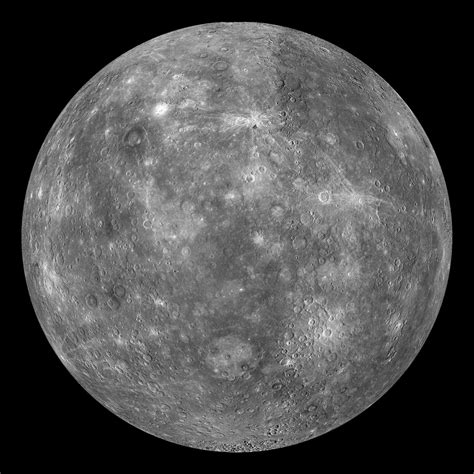
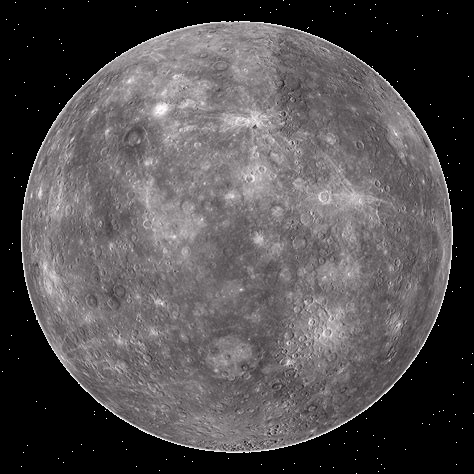
update img + add stars bg

diff --git a/scripts/level_display.py b/scripts/level_display.py
@@ -1,4 +1,5 @@
 import os
+from random import randint
 from time import sleep, perf_counter
 
 from .vars import *
@@ -39,7 +40,7 @@ class Board:
     def __init__(self, width, height):
         self.width = width
         self.height = height
-        self.board = [['000000'] * width for _ in range(height)]
+        self.board: list[list[str]] = [['000000'] * width for _ in range(height)]
         # значения по умолчанию
         self.dx = 10
         self.dy = 10
@@ -96,7 +97,7 @@ class Board:
     def render(self, screen):
         for y in range(self.height):
             for x in range(self.width):
-                pg.draw.rect(screen, pg.Color('#7f7f7f'), (
+                pg.draw.rect(screen, pg.Color('#007f7f'), (
                     x * self.cell_size + self.dx, y * self.cell_size + self.dy, self.cell_size,
                     self.cell_size), 1)
 
@@ -114,6 +115,7 @@ class Board:
 
 
 def main(go_to=None) -> None:
+    global sprite_group
     if current_level[0] > level_amount:
         current_level[0] = 0
     size = 300, 400
@@ -128,11 +130,13 @@ def main(go_to=None) -> None:
             continue
         image = pg.image.load(fullname).convert_alpha()
         images[filename.split('.')[0]] = pg.transform.scale(image, (board.cell_size * .9,) * 2)
+    sprite_group = pg.sprite.Group()
     board.generate_level(load_level(current_level[0]), images)
-    second, seconds = perf_counter(), 0
+    stars = [[randint(0, 300), randint(0, 400)] for _ in range(100)]
     text1 = get_font(25).render(f'Level {current_level[0]}' if current_level[0] else 'All levels', True, pg.Color('#ffffff'))
     text2 = get_font(20).render(f'Restart', True, pg.Color('#ff0000'))
     text3 = get_font(20).render('completed in              !', True, pg.Color('#00ffff'))
+    second, seconds = perf_counter(), 0
     running = True
     while running:
         for event in pg.event.get():
@@ -140,7 +144,7 @@ def main(go_to=None) -> None:
                 running = False
             if event.type == pg.MOUSEBUTTONDOWN:
                 if 160 < event.pos[0] < 285 and 20 < event.pos[1] < 70:
-                    main()
+                    main(go_to)
                 if event.button == 2 and board.check_tiles():
                     board.cut_tiles(images)
                     continue
@@ -183,6 +187,8 @@ def main(go_to=None) -> None:
             main(go_to)
         else:
             sprite_group.draw(screen)
+            for star in stars:
+                pg.draw.rect(screen, pg.Color('#ffffff'), (star[0], star[1], 1, 1))
             board.render(screen)
             pg.draw.rect(screen, pg.Color('#222222'), (165, 27.5, 115, 35), border_radius=15)
             screen.blit(text2, (175, 30))

diff --git a/scripts/start.py b/scripts/start.py
@@ -7,7 +7,7 @@ def main_menu():
     screen = pg.display.set_mode(size)
     pg.display.set_caption(f'{game_name} - Main menu')
     bg = pg.transform.scale(pg.image.load(MENU_IMG_PATH), size)
-    texts = [get_font(30).render(game_name, True, pg.Color('#00ffff')),
+    texts = [get_font(25).render(game_name, True, pg.Color('#00ffff')),
              get_font(20).render(f'Play {f'(level {current_level[0]})' if current_level[0] else ''}', True, pg.Color('#ffffff')),
              get_font(20).render('Select level', True, pg.Color('#ffffff')),
              get_font(20).render('How to play?', True, pg.Color('#ffffff')),
@@ -84,7 +84,7 @@ def main_menu():
             pg.draw.rect(screen, pg.Color('#00077f'), (40, 310, 220, 30), border_radius=15)
             screen.blit(texts[6], texts[6].get_rect(centerx=150, y=310))
         else:
-            screen.blit(texts[0], texts[0].get_rect(centerx=150))
+            screen.blit(texts[0], texts[0].get_rect(centerx=150, y=5))
             pg.draw.rect(screen, pg.Color('#00077f'), (40, 50, 220, 30), border_radius=15)
             screen.blit(texts[1], texts[1].get_rect(centerx=150, y=50))
             pg.draw.rect(screen, pg.Color('#00077f'), (40, 90, 220, 30), border_radius=15)

diff --git a/scripts/vars.py b/scripts/vars.py
@@ -20,7 +20,7 @@ START_IMG_PATH = os.path.join('data', 'start.jpg')
 MENU_IMG_PATH = os.path.join('data', 'main_menu_bg.jpg')
 ANIM_IMG_PATH = os.path.join('data', 'planets_round-round.png')
 
-game_name = 'Cut them all!'
+game_name = 'Destroy them all!'
 color_coding = {0: '000000', 1: 'ff0000', 2: 'ff7f00', 3: 'ffff00', 4: '00ff00', 5: '00ffff', 6: '0000ff', 7: 'ff00ff'}
 sprite_group = pg.sprite.Group()
 if not os.path.exists(CUR_LEVEL_PATH):
